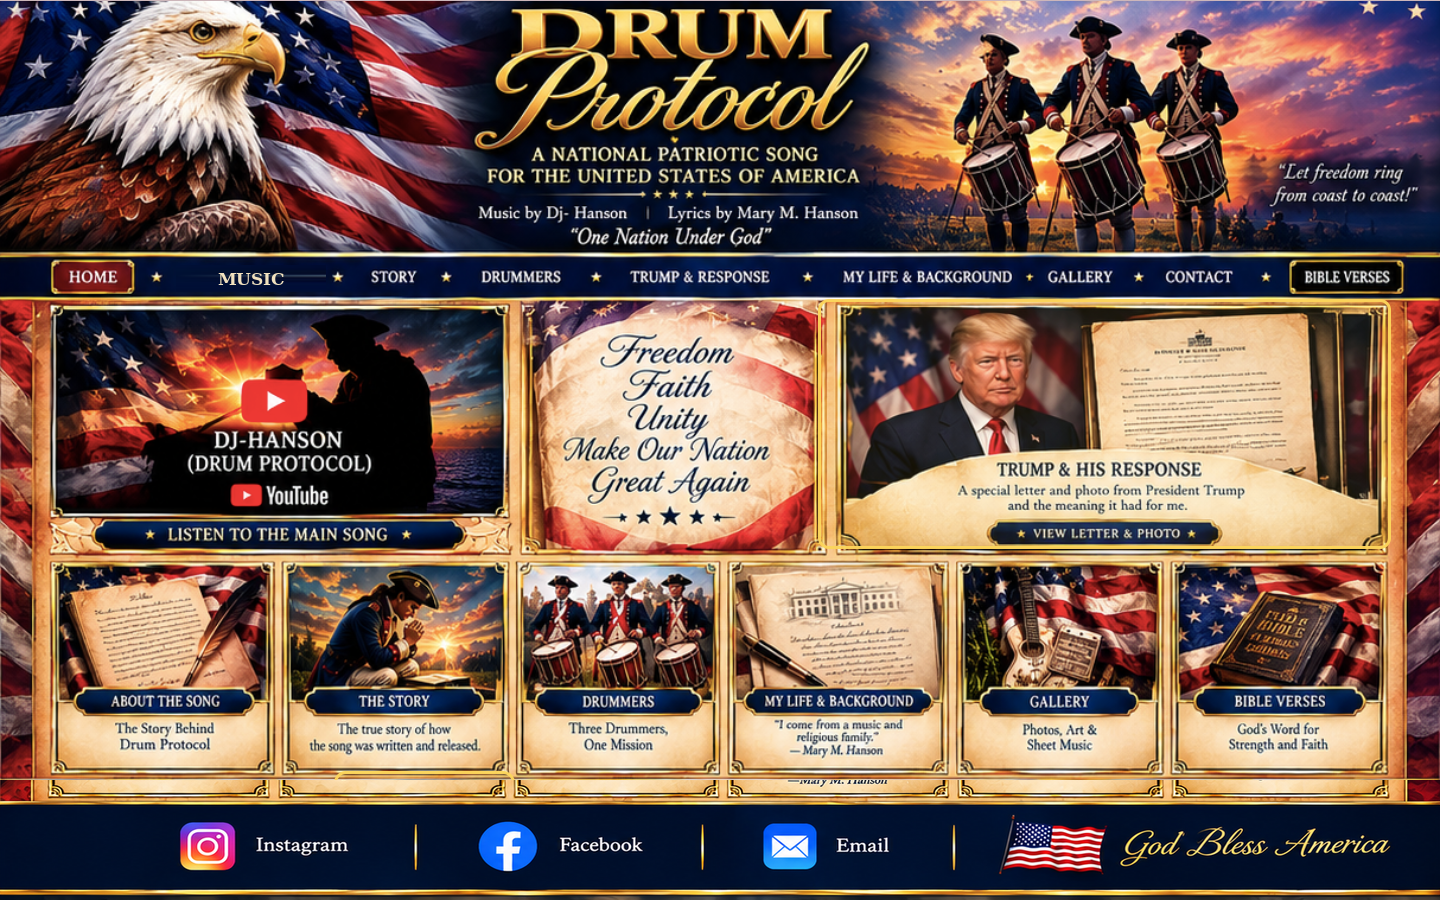
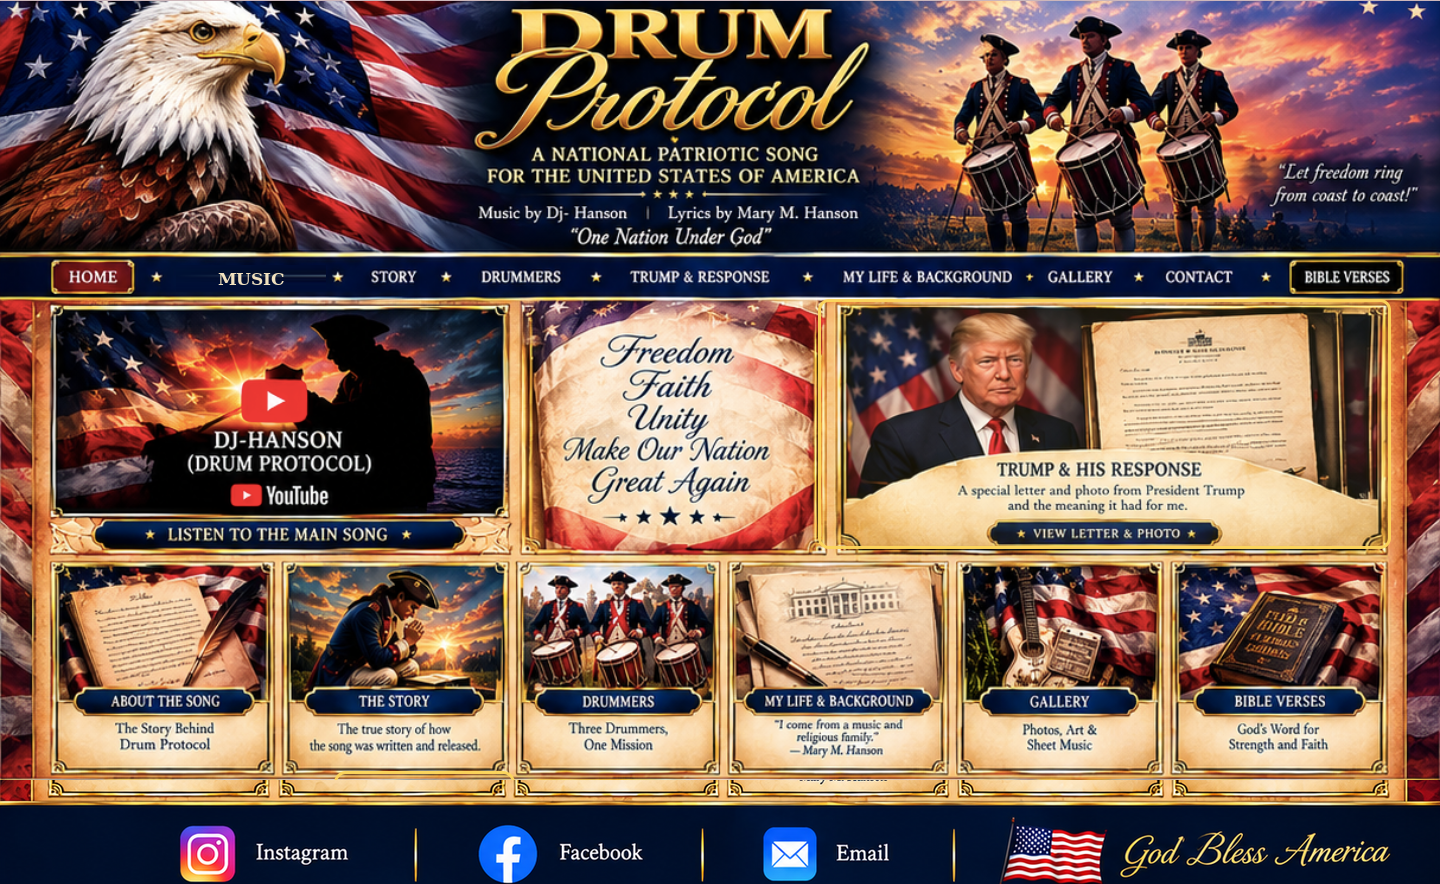
Add files via upload

diff --git a/index.html b/index.html
@@ -15,9 +15,9 @@ html,body{margin:0;background:#071b39}
 
 <style>
 .hp-social-link{position:absolute;z-index:9999;display:block;background:transparent;cursor:pointer}
-.hp-instagram{left:11.5%;top:87.0%;width:17.5%;height:12.5%}
-.hp-facebook{left:31.5%;top:87.0%;width:17.5%;height:12.5%}
-.hp-email{left:51.5%;top:87.0%;width:15.5%;height:12.5%}
+.hp-instagram{left:10.5%;top:88.0%;width:18%;height:11.5%}
+.hp-facebook{left:30.5%;top:88.0%;width:18%;height:11.5%}
+.hp-email{left:50.5%;top:88.0%;width:16%;height:11.5%}
 </style>
 
 </head><body><div class="wrap">
@@ -27,6 +27,7 @@ html,body{margin:0;background:#071b39}
 <a class="hp-social-link hp-instagram" href="https://www.instagram.com/maryhanson711_/" target="_blank" rel="noopener noreferrer" aria-label="Instagram"></a>
 <a class="hp-social-link hp-facebook" href="https://www.facebook.com/profile.php?id=61592048799260" target="_blank" rel="noopener noreferrer" aria-label="Facebook"></a>
 <a class="hp-social-link hp-email" href="mailto:djhanson711@gmail.com" aria-label="Email"></a>
+
 </div>
 
 </body></html>
